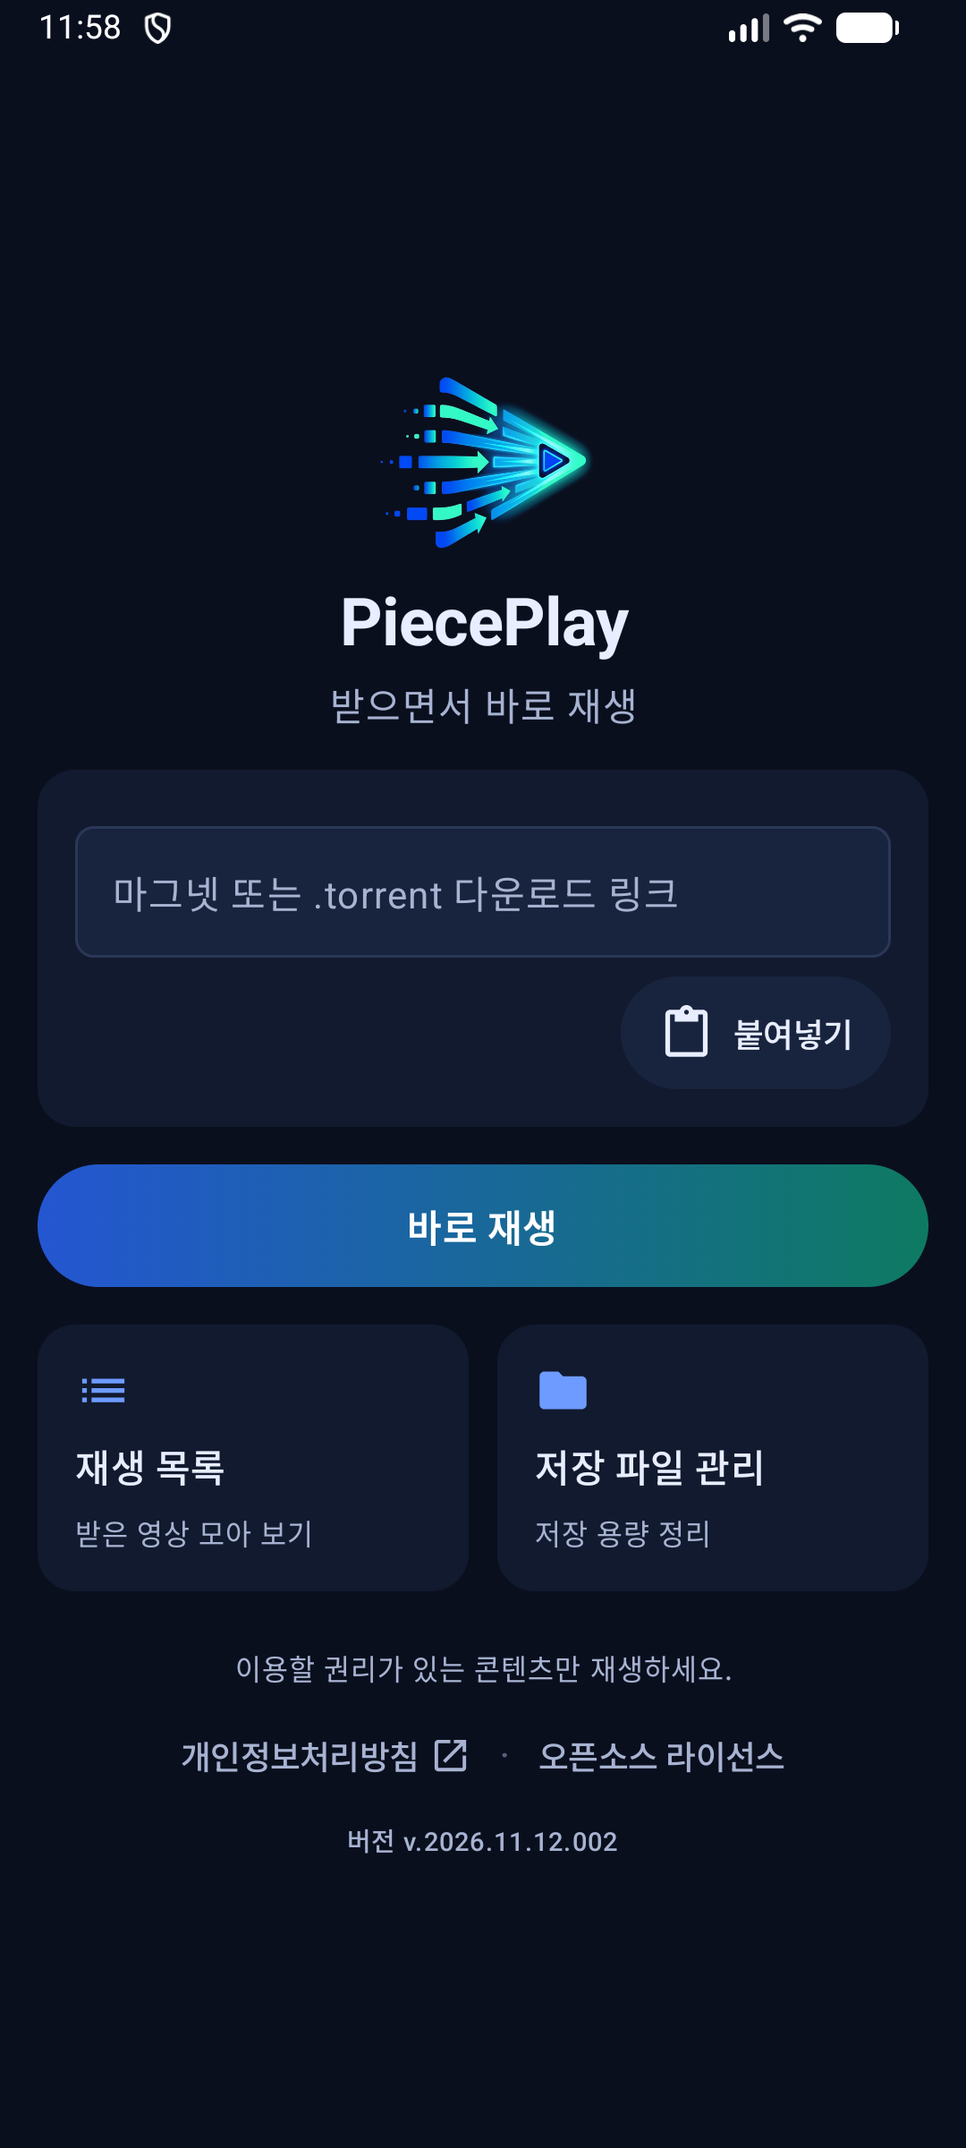
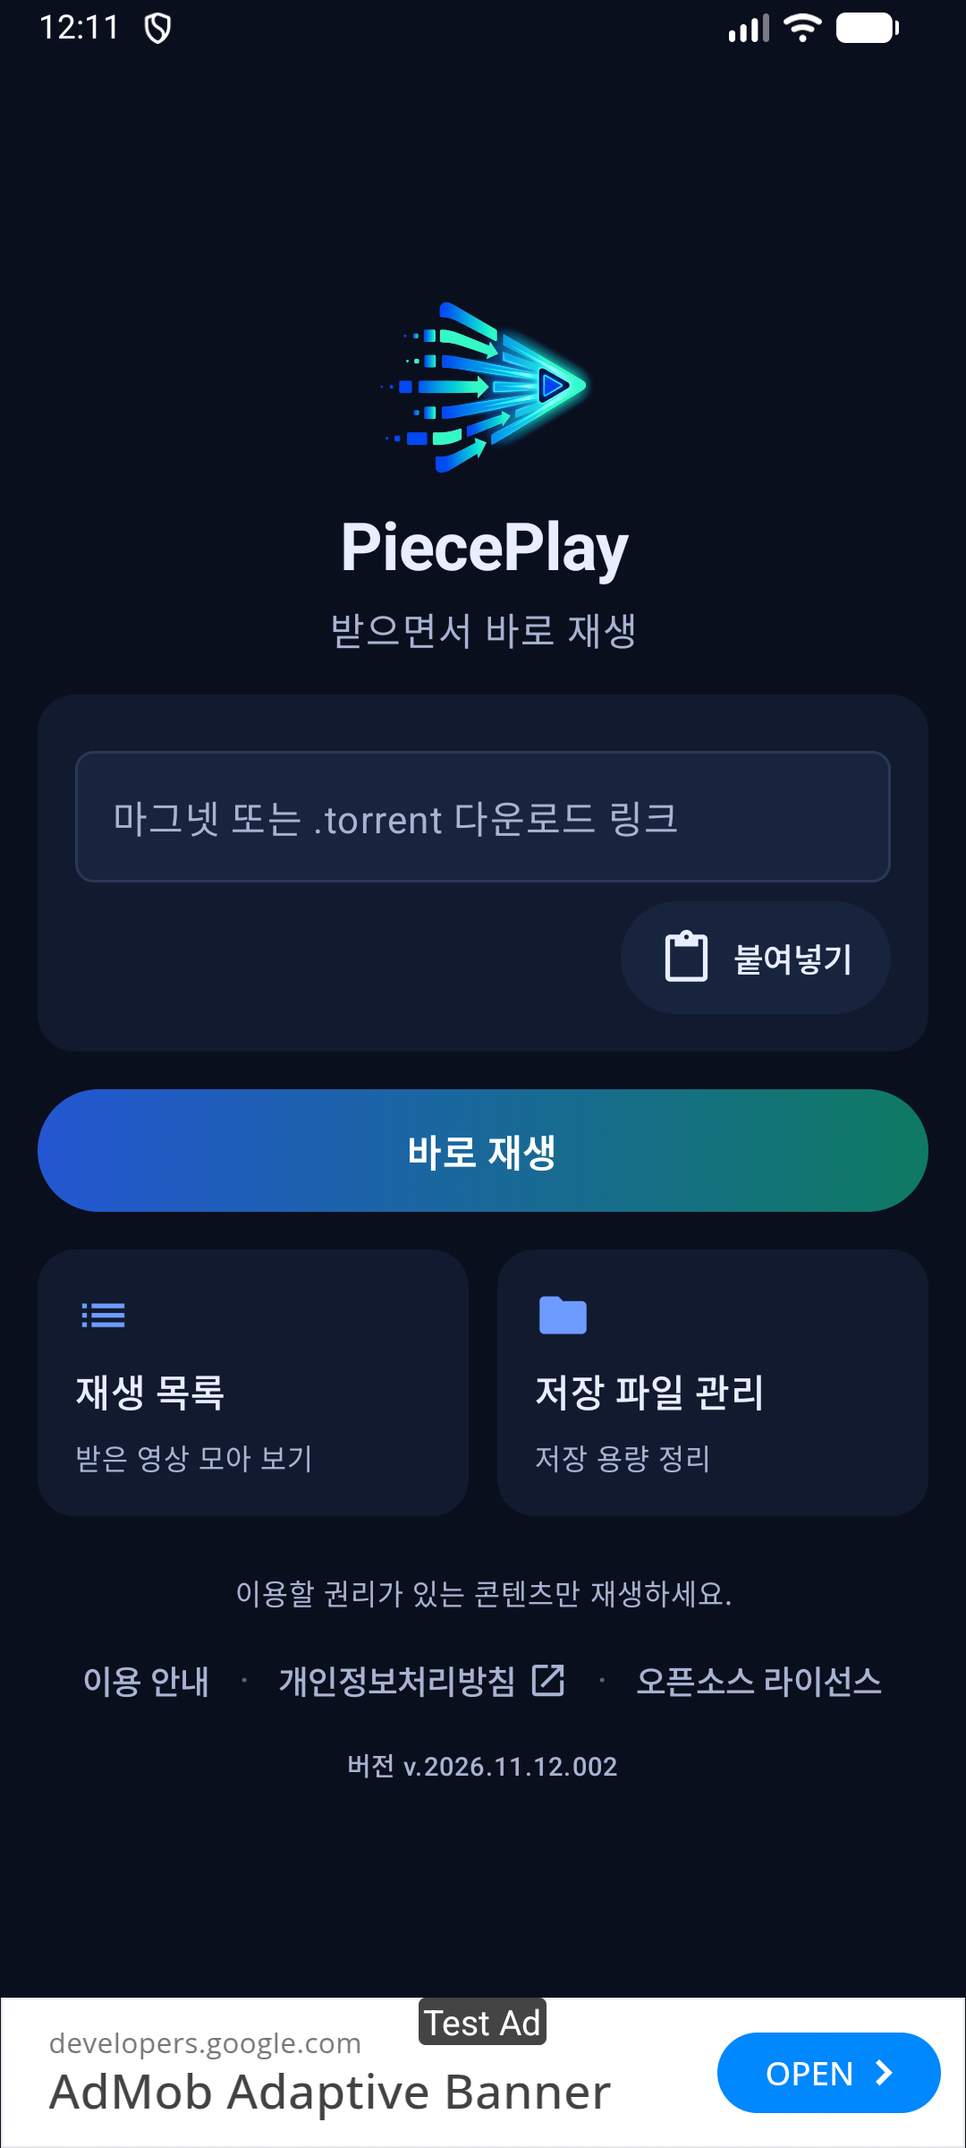
이용 안내 시트와 AppBottomSheet 공용 컴포넌트 (Refs #107)
- 시안 C(design/specs/usage-guide.md)대로 이용 안내 시트를 추가한다: 저작권 강조 카드, 5개 절(UsageGuideSection enum), 개인정보처리방침↗, 확인.
- 브라우저를 열 수 없으면 시트를 닫지 않고 시트 안에 error_browser_unavailable 문구를 보인다(스낵바는 시트 뒤에 가려짐).
- 메인 하단 링크 맨 앞에 "이용 안내"(LegalLink.USAGE_GUIDE)를 더하고 메인 화면 안 상태로 시트를 연다.
- ui/components/AppBottomSheet 추출(surface, 최대 폭 contentMaxWidth, 내비게이션 여백 + Spacing.lg, 선택 제목). PlayerMoreSheet도 이 컴포넌트로 옮긴다.
- 단위 테스트: UsageGuideSectionTest, LegalFooterPolicyTest 갱신. PATCH_NOTES "다음 배포 준비" 기록.

diff --git a/program/android/app/src/main/java/com/example/torrentstreamplayer/ui/screens/UsageGuideSheet.kt b/program/android/app/src/main/java/com/example/torrentstreamplayer/ui/screens/UsageGuideSheet.kt
@@ -1,0 +1,98 @@
+package com.example.torrentstreamplayer.ui.screens
+
+import androidx.compose.foundation.layout.Arrangement
+import androidx.compose.foundation.layout.Column
+import androidx.compose.foundation.layout.Row
+import androidx.compose.foundation.layout.fillMaxWidth
+import androidx.compose.foundation.layout.padding
+import androidx.compose.foundation.layout.size
+import androidx.compose.foundation.rememberScrollState
+import androidx.compose.foundation.verticalScroll
+import androidx.compose.material.icons.Icons
+import androidx.compose.material.icons.filled.Info
+import androidx.compose.material3.HorizontalDivider
+import androidx.compose.material3.Icon
+import androidx.compose.material3.MaterialTheme
+import androidx.compose.material3.Surface
+import androidx.compose.material3.Text
+import androidx.compose.runtime.Composable
+import androidx.compose.runtime.getValue
+import androidx.compose.runtime.mutableStateOf
+import androidx.compose.runtime.saveable.rememberSaveable
+import androidx.compose.runtime.setValue
+import androidx.compose.ui.Modifier
+import androidx.compose.ui.graphics.vector.ImageVector
+import androidx.compose.ui.res.stringResource
+import androidx.compose.ui.res.vectorResource
+import androidx.compose.ui.semantics.heading
+import androidx.compose.ui.semantics.semantics
+import com.example.torrentstreamplayer.R
+import com.example.torrentstreamplayer.ui.UsageGuideSection
+import com.example.torrentstreamplayer.ui.components.AppBottomSheet
+import com.example.torrentstreamplayer.ui.components.SecondaryButton
+import com.example.torrentstreamplayer.ui.components.TextAction
+import com.example.torrentstreamplayer.ui.theme.BrandColors
+import com.example.torrentstreamplayer.ui.theme.Shapes
+import com.example.torrentstreamplayer.ui.theme.Sizes
+import com.example.torrentstreamplayer.ui.theme.Spacing
+
+/**
+ * 이용 안내 시트(`design/specs/usage-guide.md`, 시안 C). 맨 위 저작권 강조 카드, 앱이 하는 일 절, 개인정보처리방침, 확인.
+ *
+ * @param openExternal 주소를 외부 브라우저로 연다. 열지 못하면 `false`(시트는 닫지 않고 안에 오류 문구를 보인다).
+ */
+@Composable
+internal fun UsageGuideSheet(onDismiss: () -> Unit, openExternal: (String) -> Boolean) {
+    var browserFailed by rememberSaveable { mutableStateOf(false) }
+    val privacyUrl = stringResource(R.string.url_privacy_policy)
+    AppBottomSheet(onDismiss = onDismiss, title = stringResource(R.string.action_usage_guide),
+        skipPartiallyExpanded = true) { dismiss ->
+        Column(
+            Modifier.fillMaxWidth().verticalScroll(rememberScrollState()).padding(horizontal = Spacing.screenGutter),
+            verticalArrangement = Arrangement.spacedBy(Spacing.lg)
+        ) {
+            RightsCard()
+            UsageGuideSection.entries.forEach { GuideSection(it) }
+            HorizontalDivider(color = MaterialTheme.colorScheme.outline)
+            Column(verticalArrangement = Arrangement.spacedBy(Spacing.xs)) {
+                TextAction(
+                    text = stringResource(R.string.action_privacy_policy),
+                    onClick = { browserFailed = !openExternal(privacyUrl) },
+                    trailingIcon = ImageVector.vectorResource(R.drawable.ic_open_in_new),
+                    trailingIconDescription = stringResource(R.string.cd_opens_in_browser)
+                )
+                // 스낵바는 시트 뒤에 가려지므로 시트 안에 문구로 보인다(시안 C 3절).
+                if (browserFailed) Text(stringResource(R.string.error_browser_unavailable),
+                    style = MaterialTheme.typography.bodySmall, color = MaterialTheme.colorScheme.error)
+            }
+            SecondaryButton(stringResource(R.string.action_confirm), onClick = dismiss, modifier = Modifier.fillMaxWidth())
+        }
+    }
+}
+
+/** 저작권 안내 강조 카드: 시트에서 스크롤 없이 먼저 보인다. */
+@Composable
+private fun RightsCard() {
+    Surface(color = MaterialTheme.colorScheme.surfaceContainer, shape = Shapes.medium) {
+        Row(Modifier.fillMaxWidth().padding(Spacing.lg), horizontalArrangement = Arrangement.spacedBy(Spacing.md)) {
+            Icon(Icons.Filled.Info, contentDescription = null, tint = BrandColors.PrimaryLight,
+                modifier = Modifier.size(Sizes.icon))
+            Column(verticalArrangement = Arrangement.spacedBy(Spacing.xs)) {
+                Text(stringResource(R.string.main_rights_notice), style = MaterialTheme.typography.titleSmall,
+                    color = MaterialTheme.colorScheme.onSurface)
+                Text(stringResource(R.string.guide_rights_body), style = MaterialTheme.typography.bodyMedium,
+                    color = MaterialTheme.colorScheme.onSurfaceVariant)
+            }
+        }
+    }
+}
+
+@Composable
+private fun GuideSection(section: UsageGuideSection) {
+    Column(verticalArrangement = Arrangement.spacedBy(Spacing.xs)) {
+        Text(stringResource(section.title), style = MaterialTheme.typography.titleSmall,
+            color = MaterialTheme.colorScheme.onSurface, modifier = Modifier.semantics { heading() })
+        Text(stringResource(section.body), style = MaterialTheme.typography.bodyMedium,
+            color = MaterialTheme.colorScheme.onSurfaceVariant)
+    }
+}

diff --git a/program/android/app/src/main/java/com/example/torrentstreamplayer/ui/components/AppBottomSheet.kt b/program/android/app/src/main/java/com/example/torrentstreamplayer/ui/components/AppBottomSheet.kt
@@ -1,0 +1,57 @@
+package com.example.torrentstreamplayer.ui.components
+
+import androidx.compose.foundation.layout.Column
+import androidx.compose.foundation.layout.ColumnScope
+import androidx.compose.foundation.layout.fillMaxWidth
+import androidx.compose.foundation.layout.navigationBarsPadding
+import androidx.compose.foundation.layout.padding
+import androidx.compose.material3.ExperimentalMaterial3Api
+import androidx.compose.material3.MaterialTheme
+import androidx.compose.material3.ModalBottomSheet
+import androidx.compose.material3.Text
+import androidx.compose.material3.rememberModalBottomSheetState
+import androidx.compose.runtime.Composable
+import androidx.compose.runtime.rememberCoroutineScope
+import androidx.compose.ui.Modifier
+import androidx.compose.ui.semantics.heading
+import androidx.compose.ui.semantics.semantics
+import com.example.torrentstreamplayer.ui.theme.Sizes
+import com.example.torrentstreamplayer.ui.theme.Spacing
+import kotlinx.coroutines.launch
+
+/**
+ * 공용 하단 시트(`design/specs/usage-guide.md` 4절). 바탕 `surface`, 최대 폭 [Sizes.contentMaxWidth],
+ * 아래 시스템 내비게이션 여백 + `Spacing.lg`. 가로 여백은 내용이 정한다(목록 행은 자체 여백이 있다).
+ *
+ * @param title 있으면 맨 위에 `titleLarge` 제목(TalkBack 제목)을 둔다.
+ * @param skipPartiallyExpanded `true`면 반만 펼친 단계 없이 바로 전체로 펼친다.
+ * @param content 받는 함수를 부르면 시트를 내리는 애니메이션 뒤 [onDismiss]가 불린다("확인" 버튼 등).
+ */
+@OptIn(ExperimentalMaterial3Api::class)
+@Composable
+fun AppBottomSheet(
+    onDismiss: () -> Unit,
+    title: String? = null,
+    skipPartiallyExpanded: Boolean = false,
+    content: @Composable ColumnScope.(dismiss: () -> Unit) -> Unit
+) {
+    val sheetState = rememberModalBottomSheetState(skipPartiallyExpanded = skipPartiallyExpanded)
+    val scope = rememberCoroutineScope()
+    val dismiss: () -> Unit = {
+        scope.launch { sheetState.hide() }.invokeOnCompletion { if (!sheetState.isVisible) onDismiss() }
+    }
+    ModalBottomSheet(
+        onDismissRequest = onDismiss,
+        sheetState = sheetState,
+        sheetMaxWidth = Sizes.contentMaxWidth,
+        containerColor = MaterialTheme.colorScheme.surface
+    ) {
+        Column(Modifier.fillMaxWidth().navigationBarsPadding().padding(bottom = Spacing.lg)) {
+            if (title != null) Text(title, style = MaterialTheme.typography.titleLarge,
+                color = MaterialTheme.colorScheme.onSurface,
+                modifier = Modifier.padding(horizontal = Spacing.screenGutter).padding(bottom = Spacing.lg)
+                    .semantics { heading() })
+            content(dismiss)
+        }
+    }
+}

diff --git a/program/android/app/src/main/java/com/example/torrentstreamplayer/ui/player/PlayerOverlay.kt b/program/android/app/src/main/java/com/example/torrentstreamplayer/ui/player/PlayerOverlay.kt
@@ -6,7 +6,6 @@ import androidx.compose.foundation.layout.Arrangement
 import androidx.compose.foundation.layout.Column
 import androidx.compose.foundation.layout.Row
 import androidx.compose.foundation.layout.fillMaxWidth
-import androidx.compose.foundation.layout.navigationBarsPadding
 import androidx.compose.foundation.layout.padding
 import androidx.compose.foundation.layout.size
 import androidx.compose.foundation.shape.CircleShape
@@ -18,13 +17,11 @@ import androidx.compose.material.icons.filled.PlayArrow
 import androidx.compose.material.icons.filled.Refresh
 import androidx.compose.material.icons.filled.Warning
 import androidx.compose.material3.CircularProgressIndicator
-import androidx.compose.material3.ExperimentalMaterial3Api
 import androidx.compose.material3.Icon
 import androidx.compose.material3.IconButton
 import androidx.compose.material3.ListItem
 import androidx.compose.material3.ListItemDefaults
 import androidx.compose.material3.MaterialTheme
-import androidx.compose.material3.ModalBottomSheet
 import androidx.compose.material3.Surface
 import androidx.compose.material3.Text
 import androidx.compose.runtime.Composable
@@ -43,6 +40,7 @@ import com.example.torrentstreamplayer.R
 import com.example.torrentstreamplayer.engine.PieceMapSnapshot
 import com.example.torrentstreamplayer.ui.PieceMap
 import com.example.torrentstreamplayer.ui.VideoOrientationButton
+import com.example.torrentstreamplayer.ui.components.AppBottomSheet
 import com.example.torrentstreamplayer.ui.components.SecondaryButton
 import com.example.torrentstreamplayer.ui.theme.PlaybackColors
 import com.example.torrentstreamplayer.ui.theme.Shapes
@@ -152,14 +150,11 @@ internal fun PlayerTimePill(timeLabel: String, modifier: Modifier = Modifier) {
 }
 
 /** 더보기 하단 시트: 링크 추가, 처음부터 재생. */
-@OptIn(ExperimentalMaterial3Api::class)
 @Composable
 internal fun PlayerMoreSheet(onDismiss: () -> Unit, onAddLink: (() -> Unit)?, onRestart: () -> Unit) {
-    ModalBottomSheet(onDismissRequest = onDismiss, containerColor = MaterialTheme.colorScheme.surface) {
-        Column(Modifier.navigationBarsPadding().padding(bottom = Spacing.lg)) {
-            if (onAddLink != null) SheetItem(Icons.Filled.Add, stringResource(R.string.action_add_link), onAddLink)
-            SheetItem(Icons.Filled.Refresh, stringResource(R.string.player_restart), onRestart)
-        }
+    AppBottomSheet(onDismiss = onDismiss) {
+        if (onAddLink != null) SheetItem(Icons.Filled.Add, stringResource(R.string.action_add_link), onAddLink)
+        SheetItem(Icons.Filled.Refresh, stringResource(R.string.player_restart), onRestart)
     }
 }
 

diff --git a/program/android/app/src/test/java/com/example/torrentstreamplayer/ui/UsageGuideSectionTest.kt b/program/android/app/src/test/java/com/example/torrentstreamplayer/ui/UsageGuideSectionTest.kt
@@ -1,0 +1,48 @@
+package com.example.torrentstreamplayer.ui
+
+import com.example.torrentstreamplayer.ui.navigation.AppScreen
+import org.junit.Assert.assertEquals
+import org.junit.Assert.assertFalse
+import org.junit.Assert.assertTrue
+import org.junit.Test
+import java.io.File
+
+class UsageGuideSectionTest {
+    private val strings: Map<String, String> by lazy {
+        val xml = File("src/main/res/values/strings.xml").readText()
+        Regex("<string name=\"([^\"]+)\">([^<]*)</string>").findAll(xml)
+            .associate { it.groupValues[1] to it.groupValues[2] }
+    }
+
+    @Test fun sectionsFollowTheSpecOrder() {
+        assertEquals(
+            listOf(UsageGuideSection.WHAT, UsageGuideSection.UPLOAD, UsageGuideSection.STORAGE,
+                UsageGuideSection.DATA, UsageGuideSection.ADS),
+            UsageGuideSection.entries
+        )
+    }
+
+    @Test fun everySectionHasItsOwnTitleAndBody() {
+        val ids = UsageGuideSection.entries.flatMap { listOf(it.title, it.body) }
+        assertEquals(ids.size, ids.toSet().size)
+    }
+
+    @Test fun guideKeysAreRegisteredInStrings() {
+        val keys = UsageGuideSection.entries.flatMap { section ->
+            val name = "guide_" + section.name.lowercase()
+            listOf("${name}_title", "${name}_body")
+        } + listOf("guide_rights_body", "main_rights_notice", "action_usage_guide", "action_confirm")
+        keys.forEach { assertTrue("$it is missing", strings[it].orEmpty().isNotBlank()) }
+    }
+
+    /** 업로드하지 않는다는 장점과 IP 노출을 같은 절에 둔다(시안 C 2절 문구 점검). */
+    @Test fun uploadSectionAlsoMentionsIpExposure() {
+        assertTrue(strings.getValue("guide_upload_body").contains("IP 주소"))
+    }
+
+    /** 광고 규칙이 "재생 중 광고"를 허용하게 바뀌면 이 문장도 고쳐야 한다(시안 C program 체크 항목). */
+    @Test fun adsSectionSaysNoAdsDuringPlayback() {
+        assertTrue(strings.getValue("guide_ads_body").contains("재생하는 동안에는 광고가 나오지 않습니다"))
+        assertFalse(TestAdPolicy.visible(AppScreen.Player("video")))
+    }
+}

diff --git a/program/android/app/src/main/java/com/example/torrentstreamplayer/ui/screens/MainScreen.kt b/program/android/app/src/main/java/com/example/torrentstreamplayer/ui/screens/MainScreen.kt
@@ -30,6 +30,7 @@ import androidx.compose.runtime.getValue
 import androidx.compose.runtime.mutableStateOf
 import androidx.compose.runtime.remember
 import androidx.compose.runtime.rememberCoroutineScope
+import androidx.compose.runtime.saveable.rememberSaveable
 import androidx.compose.runtime.setValue
 import androidx.compose.ui.Alignment
 import androidx.compose.ui.Modifier
@@ -78,11 +79,14 @@ internal fun MagnetLinkInputScreen(
     val snackbar = remember { SnackbarHostState() }
     val openExternal = rememberExternalLinkOpener()
     val browserUnavailable = stringResource(R.string.error_browser_unavailable)
+    var showUsageGuide by rememberSaveable { mutableStateOf(false) }
     val footerActions = FooterActions(
+        openUsageGuide = { showUsageGuide = true },
         openExternal = { url -> if (!openExternal(url)) scope.launch { snackbar.showSnackbar(browserUnavailable) } },
         openLicenses = onOpenLicenses,
         privacyOptions = onPrivacyOptions
     )
+    if (showUsageGuide) UsageGuideSheet(onDismiss = { showUsageGuide = false }, openExternal = openExternal)
 
     Box(Modifier.fillMaxSize()) {
         Column(
@@ -172,6 +176,7 @@ private fun ShortcutCard(icon: ImageVector, title: String, hint: String, onClick
 
 /** 하단 링크가 부르는 동작. [privacyOptions]는 동의 필요 지역에서만 있다. */
 private class FooterActions(
+    val openUsageGuide: () -> Unit,
     val openExternal: (String) -> Unit,
     val openLicenses: () -> Unit,
     val privacyOptions: (() -> Unit)?
@@ -215,6 +220,7 @@ private fun Footer(versionName: String?, actions: FooterActions) {
 private fun FooterLink(link: LegalLink, actions: FooterActions) {
     val url = link.url?.let { stringResource(it) }
     val onClick: () -> Unit = when (link) {
+        LegalLink.USAGE_GUIDE -> actions.openUsageGuide
         LegalLink.PRIVACY_POLICY -> { { url?.let(actions.openExternal) } }
         LegalLink.OPEN_SOURCE_LICENSES -> actions.openLicenses
         LegalLink.AD_PRIVACY -> actions.privacyOptions ?: return

diff --git a/program/android/app/src/test/java/com/example/torrentstreamplayer/ui/LegalFooterPolicyTest.kt b/program/android/app/src/test/java/com/example/torrentstreamplayer/ui/LegalFooterPolicyTest.kt
@@ -10,7 +10,8 @@ import org.junit.Test
 class LegalFooterPolicyTest {
     @Test fun consentRegionShowsAllLinksInFixedOrder() {
         assertEquals(
-            listOf(LegalLink.PRIVACY_POLICY, LegalLink.OPEN_SOURCE_LICENSES, LegalLink.AD_PRIVACY),
+            listOf(LegalLink.USAGE_GUIDE, LegalLink.PRIVACY_POLICY, LegalLink.OPEN_SOURCE_LICENSES,
+                LegalLink.AD_PRIVACY),
             LegalFooterPolicy.links(consentOptionsAvailable = true)
         )
     }
@@ -30,7 +31,8 @@ class LegalFooterPolicyTest {
         assertEquals(R.string.url_privacy_policy, LegalLink.PRIVACY_POLICY.url)
     }
 
-    @Test fun privacyPolicyIsAlwaysShown() {
+    @Test fun usageGuideAndPrivacyPolicyAreAlwaysShown() {
+        assertTrue(LegalLink.USAGE_GUIDE in LegalFooterPolicy.links(consentOptionsAvailable = false))
         assertTrue(LegalLink.PRIVACY_POLICY in LegalFooterPolicy.links(consentOptionsAvailable = false))
         assertTrue(LegalLink.OPEN_SOURCE_LICENSES in LegalFooterPolicy.links(consentOptionsAvailable = false))
     }

diff --git a/program/android/app/src/main/java/com/example/torrentstreamplayer/ui/UsageGuideSection.kt b/program/android/app/src/main/java/com/example/torrentstreamplayer/ui/UsageGuideSection.kt
@@ -1,0 +1,16 @@
+package com.example.torrentstreamplayer.ui
+
+import androidx.annotation.StringRes
+import com.example.torrentstreamplayer.R
+
+/**
+ * 이용 안내 시트의 절(`design/specs/usage-guide.md` 2절). 선언 순서가 화면 순서다.
+ * 저작권 안내는 절이 아니라 맨 위 강조 카드(`main_rights_notice`·`guide_rights_body`)에 있다.
+ */
+internal enum class UsageGuideSection(@StringRes val title: Int, @StringRes val body: Int) {
+    WHAT(R.string.guide_what_title, R.string.guide_what_body),
+    UPLOAD(R.string.guide_upload_title, R.string.guide_upload_body),
+    STORAGE(R.string.guide_storage_title, R.string.guide_storage_body),
+    DATA(R.string.guide_data_title, R.string.guide_data_body),
+    ADS(R.string.guide_ads_title, R.string.guide_ads_body),
+}

diff --git a/program/android/app/src/main/java/com/example/torrentstreamplayer/ui/LegalLink.kt b/program/android/app/src/main/java/com/example/torrentstreamplayer/ui/LegalLink.kt
@@ -15,6 +15,7 @@ internal enum class LegalLink(
     @StringRes val url: Int? = null,
     val needsConsentRegion: Boolean = false,
 ) {
+    USAGE_GUIDE(R.string.action_usage_guide),
     PRIVACY_POLICY(R.string.action_privacy_policy, url = R.string.url_privacy_policy),
     OPEN_SOURCE_LICENSES(R.string.action_open_source_licenses),
     AD_PRIVACY(R.string.action_ad_privacy, needsConsentRegion = true);

diff --git a/program/android/PATCH_NOTES.md b/program/android/PATCH_NOTES.md
@@ -8,7 +8,9 @@
 - 재생 중 글꼴 크기·화면 배율 같은 기기 설정을 바꿔 화면이 다시 그려져도 처음 연 위치로 되돌아가지 않고 보던 위치에서 이어 봅니다.
 - .torrent 주소를 받다가 네트워크 오류(주소를 찾지 못함, 보안 연결 실패, 시간 초과)가 나면 영어 오류와 서버 주소 대신 "링크를 열지 못했습니다. 주소를 확인하고 다시 시도해 주세요."가 나옵니다. 재생 목록의 다운로드 오류도 같습니다.
 - 이어보기 위치로 이동하는 동작이 재생 중 위치 저장 때마다 다시 준비되던 문제를 고쳤습니다.
-- 오픈소스 라이선스 화면(목록과 라이선스 전문)을 추가했습니다. 메인 화면의 진입 링크는 아직 없습니다.
+- 오픈소스 라이선스 화면(목록과 라이선스 전문)을 추가했습니다.
+- 메인 화면 아래에 "이용할 권리가 있는 콘텐츠만 재생하세요." 안내와 이용 안내 · 개인정보처리방침 · 오픈소스 라이선스 · (필요한 지역에서) 광고 개인정보 설정 링크, 버전을 둡니다. 개인정보처리방침은 웹 브라우저로 열리고, 브라우저를 열 수 없으면 안내가 나옵니다.
+- 이용 안내를 아래에서 올라오는 시트로 추가했습니다: 저작권 안내, 앱이 받는 것과 올려 보내지 않는 것(연결된 사용자에게 IP 주소가 보인다는 점 포함), 기기 안 저장, 데이터 사용, 광고.
 - 토렌트 처리 중 예기치 않은 오류가 나면 영어·라이브러리 원문 대신 "토렌트를 처리하지 못했습니다. 잠시 후 다시 시도해 주세요."가 나옵니다(메인 오류, 재생 목록의 다운로드 오류).
 
 ## v.2026.11.12.002 (versionCode 27)
